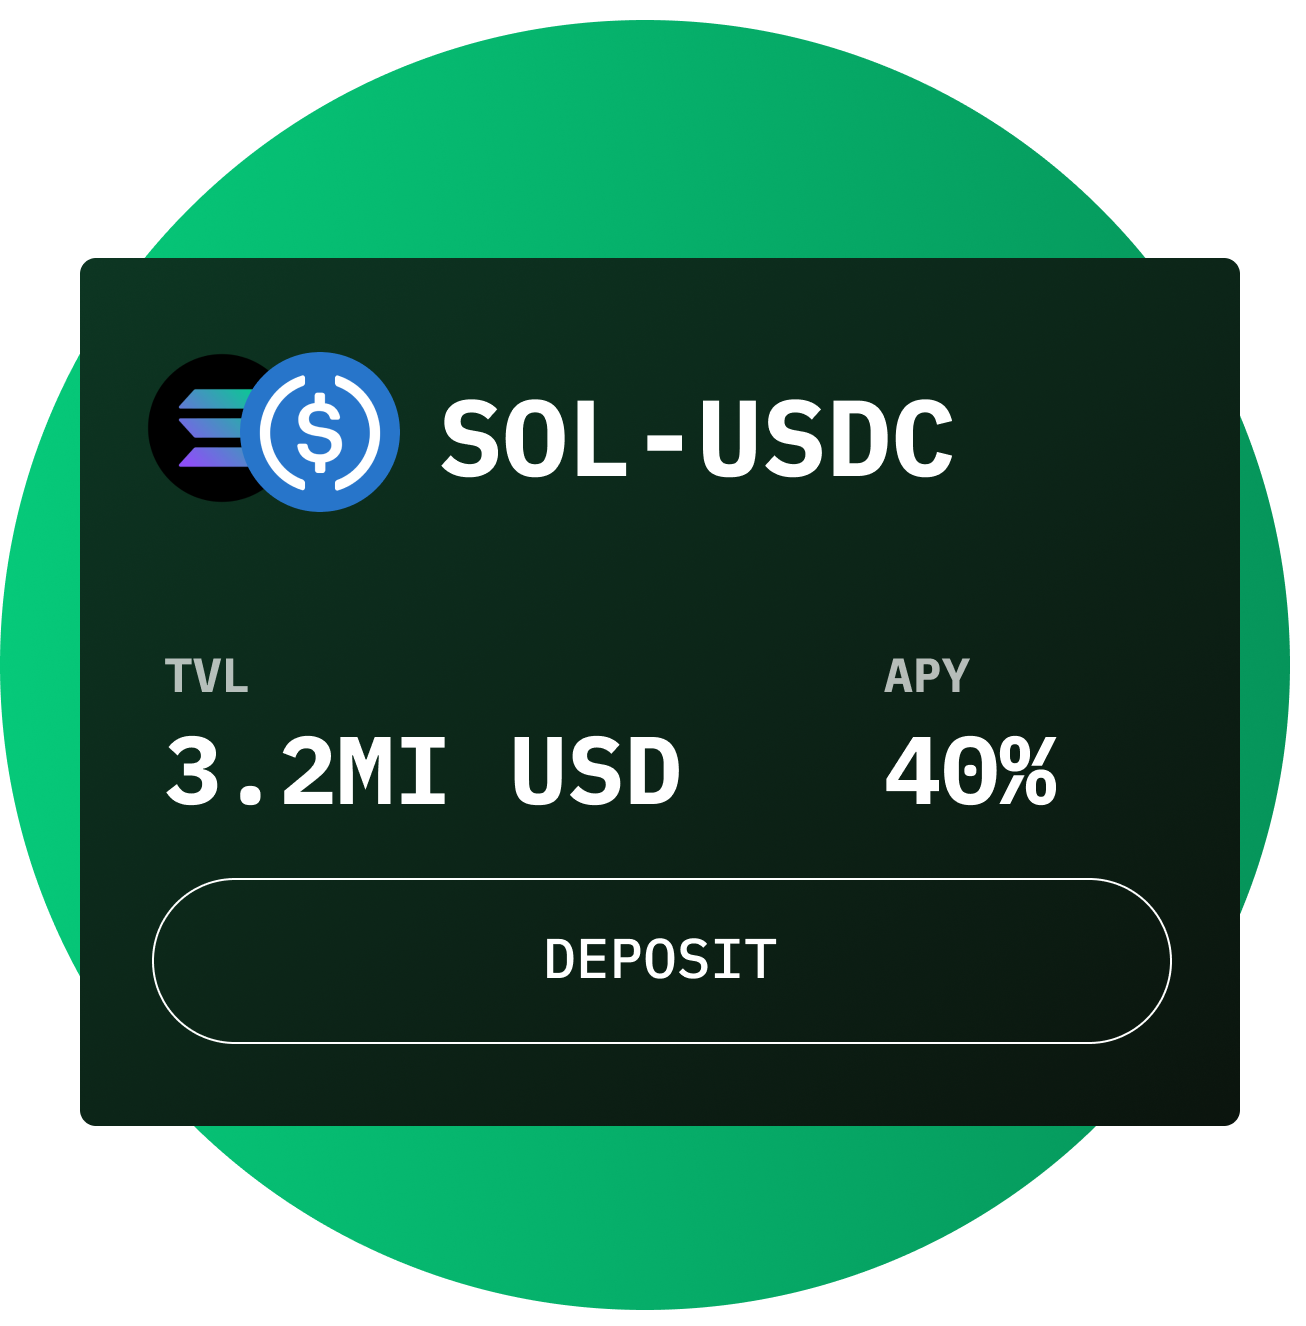
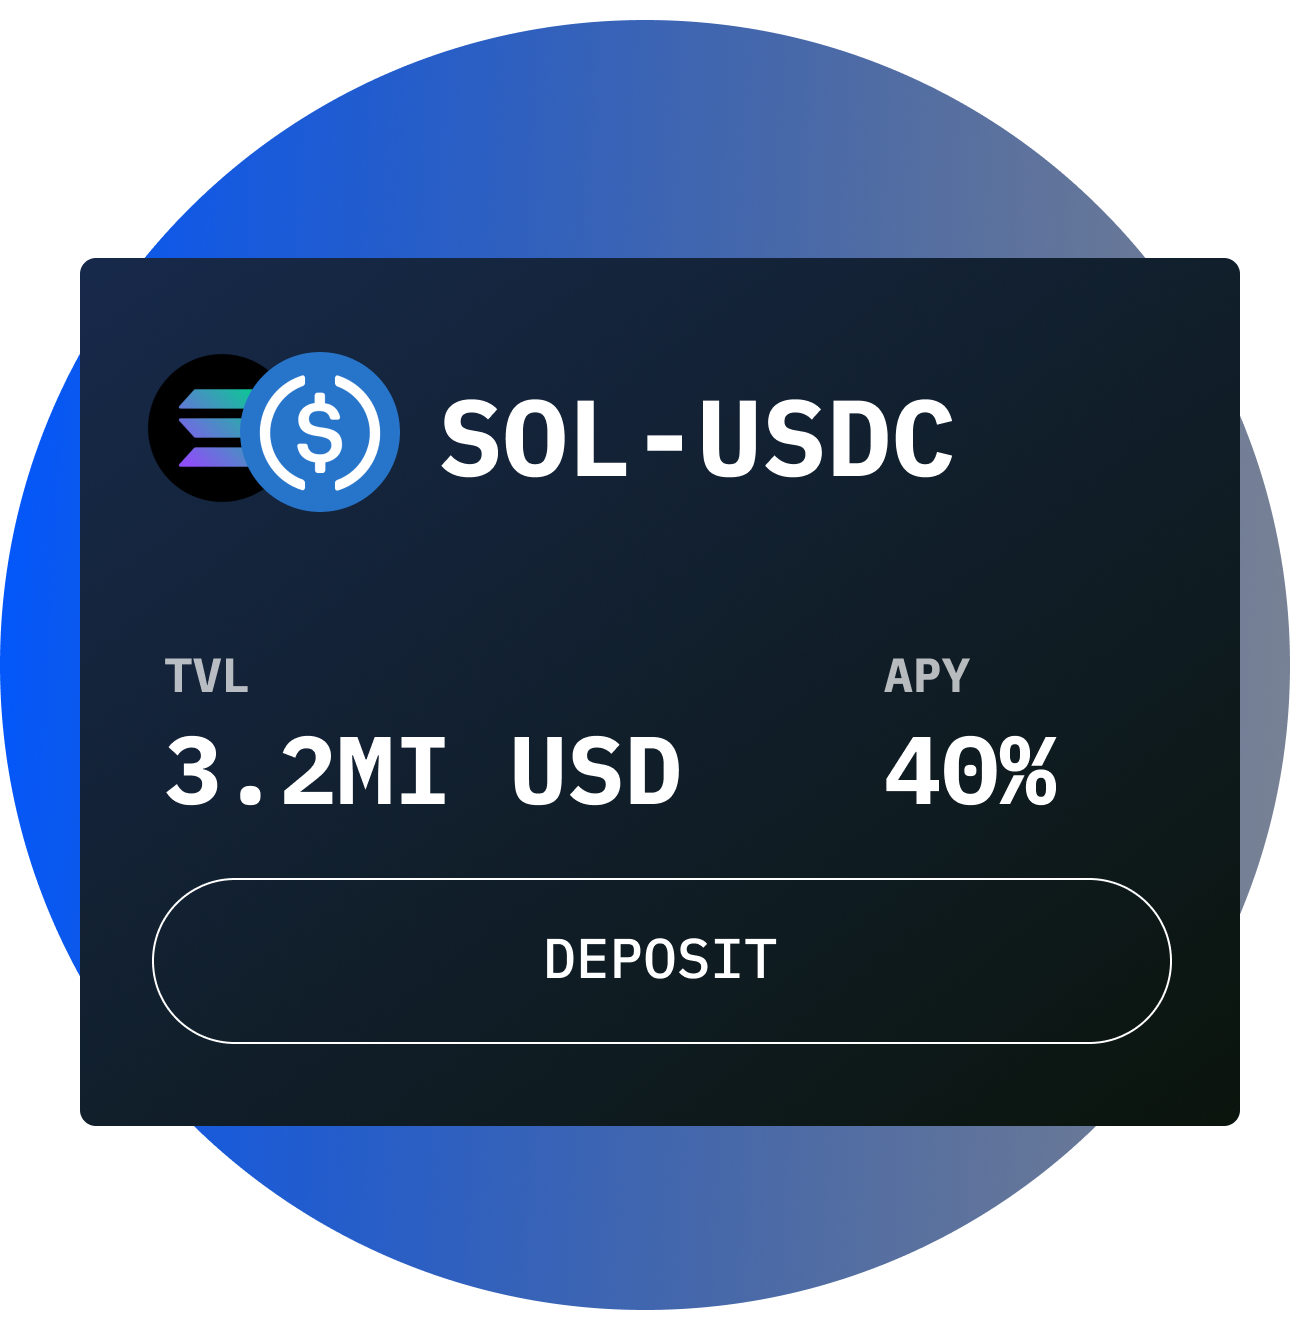
finish website

diff --git a/src/pages/index.tsx b/src/pages/index.tsx
@@ -173,7 +173,7 @@ export default function Pools({ pools }) {
               marginTop: -25,
             }}
           >
-            - A Defi&NFT <span style={{ color: "#07C577" }}>COMPANY</span>
+            - A Defi&NFT <span style={{ color: "#0057FF" }}>COMPANY</span>
           </Text>
           <Spacer y={1} />
           <Text
@@ -194,7 +194,7 @@ export default function Pools({ pools }) {
               height: 45,
               width: "200px",
               borderRadius: "2rem",
-              backgroundColor: "#07C577",
+              backgroundColor: "#0057FF",
             }}
           >
             Check vaults
@@ -234,7 +234,7 @@ export default function Pools({ pools }) {
               marginTop: 30,
             }}
           >
-            YIELD FARMING <span style={{ color: "#07C577" }}>POOLS</span>
+            YIELD FARMING <span style={{ color: "#0057FF" }}>POOLS</span>
           </Text>
           <Spacer y={1} />
           <Text
@@ -283,12 +283,12 @@ export default function Pools({ pools }) {
               marginTop: 5,
             }}
           >
-            1. Daily <span style={{ color: "#07C577" }}>xGrass</span> token
+            1. Daily <span style={{ color: "#0057FF" }}>xGrass</span> token
             airdrop <br />
-            2. Exclusive <span style={{ color: "#07C577" }}>xGrass</span> farm
+            2. Exclusive <span style={{ color: "#0057FF" }}>xGrass</span> farm
             pool private yield
             <br /> 3. 20% of profits used to buy back{" "}
-            <span style={{ color: "#07C577" }}>xGrass</span>
+            <span style={{ color: "#0057FF" }}>xGrass</span>
           </Text>
         </Col>
         {isMobile ? null : <Spacer x={3} />}

diff --git a/src/components/PoolCard.tsx b/src/components/PoolCard.tsx
@@ -213,7 +213,7 @@ export default function PoolCard({
         >
           <LogoImage2
             src={
-              "https://raw.githubusercontent.com/solana-labs/token-list/main/assets/mainnet/orcaEKTdK7LKz57vaAYr9QeNsVEPfiu6QeMU1kektZE/logo.png"
+              "https://raw.githubusercontent.com/solana-labs/token-list/main/assets/mainnet/4k3Dyjzvzp8eMZWUXbBCjEvwSkkk59S5iCNLY3QrkX6R/logo.png"
             }
           />
           <Spacer x={0.5} />
@@ -221,7 +221,7 @@ export default function PoolCard({
             size={26}
             css={{ color: "$outText", fontWeight: "bold", lineHeight: 1 }}
           >
-            Orca
+            Raydium
           </Text>
         </Row>
       </Card>

diff --git a/src/utils/theme.tsx b/src/utils/theme.tsx
@@ -2,13 +2,13 @@ import { createTheme } from "@nextui-org/react";
 
 // Define what main theme will look like
 export const darkTheme = {
-  primaryBackground: "#0B140E",
+  primaryBackground: "#02173B",
   secondaryBackground: "white",
   primaryText: "#fff",
   secondaryText: "rgba(0,0,0,0.8)",
   outText: "#000",
   cardBoxShadow: "",
-  accent: "#07C577",
+  accent: "#0057FF",
 };
 
 export const nextDarkTheme = createTheme({
